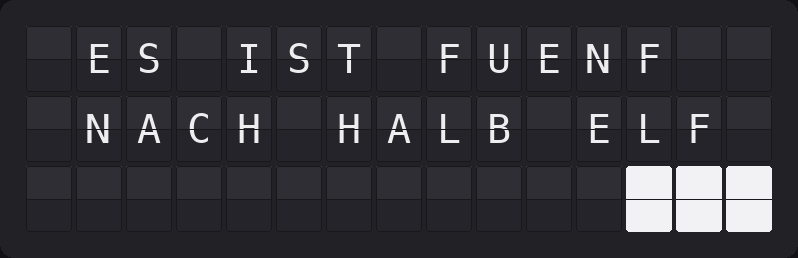
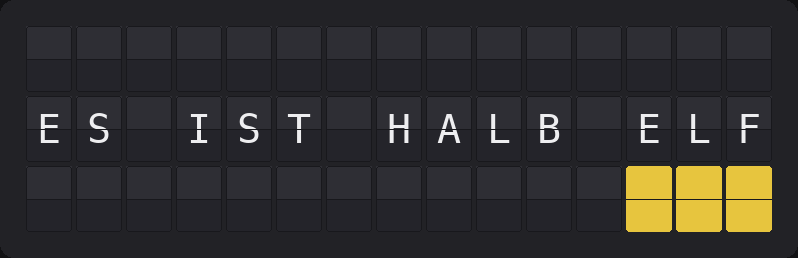
docs: add a minute-dots sample page, fix two wrong examples
The README now carries a worked sample page for the minute dots: the
settings, the one-line template, and the board it produces. Both images
are rendered from real plugin output instead of drawn by hand, which is
how the two errors below surfaced.

- docs/SETUP.md claimed 10:33 reads "ES IST FUENF NACH HALB ELF". It does
  not: :33 floors to the half-hour step, so the board reads "ES IST HALB
  ELF" and the three leftover minutes become the dots.
- board-minute-dots.png depicted 10:35 with three dots, a state that cannot
  occur — :35 sits exactly on a five-minute step, so the offset is zero.
  Both dot images now show the same real 10:33 state.

Also notes the one way the dots can be printed twice: the line and block
variables already contain them, so minute_dots is only for layouts built
row by row.

diff --git a/README.md b/README.md
@@ -65,6 +65,39 @@ To place the clock in one specific row instead, use a line variable:
 {{word_clock.line3}}
 ```
 
+### Sample page: minute dots
+
+A QLOCKTWO carries four corner dots for the minutes the words cannot express. Turn them on in the plugin settings — they are part of the layout, not something you place in the template:
+
+| Setting | Value |
+|---------|-------|
+| `language` | `de` |
+| `rounding` | `down` |
+| `show_minute_dots` | `true` |
+| `dot_color` | `yellow` |
+
+The page itself stays the same one line:
+
+```
+{{word_clock.block}}
+
+
+
+
+```
+
+At **10:33** that renders as `ES IST HALB ELF` plus three dots in the bottom right — one per minute past the five-minute step:
+
+![Sample page with minute dots](./docs/board-sample-dots.png)
+
+On a Note the words sit on the middle row and the dots take the bottom-right corner below them:
+
+![Minute dots on a Note](./docs/board-minute-dots.png)
+
+The dots are dropped when the bottom row has no free tiles — the time always outranks them. They only pair sensibly with `down` rounding; with `nearest` the phrase has already absorbed the difference and the offset is always zero.
+
+**One catch:** `line1`…`line6` and `block` already contain the dots. `{{word_clock.minute_dots}}` is for building a layout row by row out of `phrase_short` and friends — combining it with the line variables prints them twice.
+
 ### Don't do this
 
 ```
@@ -106,9 +139,6 @@ No API key, no network access, no environment variables.
 - Board-adaptive layout: every phrase fits a Note (15×3) and a Flagship (22×6), verified by a test that walks all 24 hours × 12 steps × every language and option combination. French is the tight one at 37 characters (`IL EST QUATRE HEURES MOINS VINGT-CINQ`)
 - Umlaut handling for a charset that has none
 - QLOCKTWO-style minute dots as colored tiles, skipped when the bottom row is full
-
-![Minute dots](./docs/board-minute-dots.png)
-
 - `live_data`, so the board never shows a cached time
 - No network calls, so nothing to rate-limit and nothing to leak
 

diff --git a/docs/SETUP.md b/docs/SETUP.md
@@ -98,7 +98,7 @@ Spanish agrees the opener with the hour the phrase *names*: 12:40 reads `ES LA U
 
 ### Minute dots
 
-A QLOCKTWO carries four corner dots for the minutes between two five-minute steps. With **Show minute dots** on, the plugin puts up to four colored tiles in the bottom right — one per minute past the step. At 10:33 with `down` rounding the board reads `ES IST FUENF NACH HALB ELF` plus three dots.
+A QLOCKTWO carries four corner dots for the minutes between two five-minute steps. With **Show minute dots** on, the plugin puts up to four colored tiles in the bottom right — one per minute past the step. At 10:33 with `down` rounding the board reads `ES IST HALB ELF` plus three dots — 10:33 floors to the half-hour step, and the three minutes past it become the dots.
 
 The dots are skipped when the bottom row has no free tiles; the time itself always wins.
 

diff --git a/CHANGELOG.md b/CHANGELOG.md
@@ -9,6 +9,15 @@ the two drift apart.
 
 ## [Unreleased]
 
+### Documentation
+
+- Sample page for the minute dots in the README, rendered from real plugin
+  output rather than written by hand.
+- Corrected the minute-dot example in `docs/SETUP.md`: 10:33 floors to the
+  half-hour step and reads `ES IST HALB ELF`, not `ES IST FUENF NACH HALB ELF`.
+- Re-rendered `board-minute-dots.png`, which showed 10:35 with three dots — a
+  state that cannot occur, since :35 is exactly on a five-minute step.
+
 ## [1.2.0] — 2026-08-12
 
 ### Added
